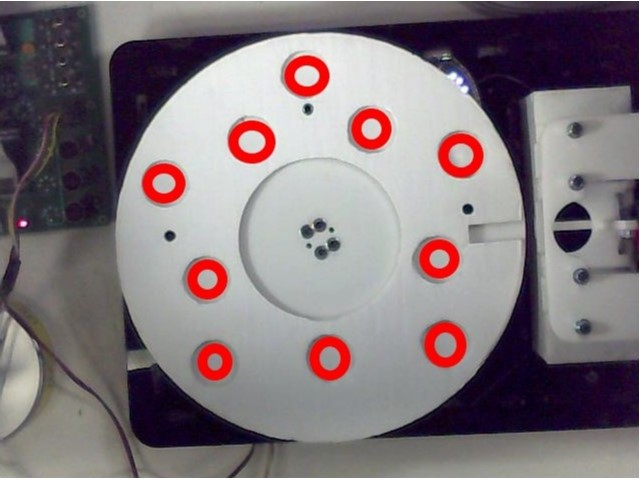
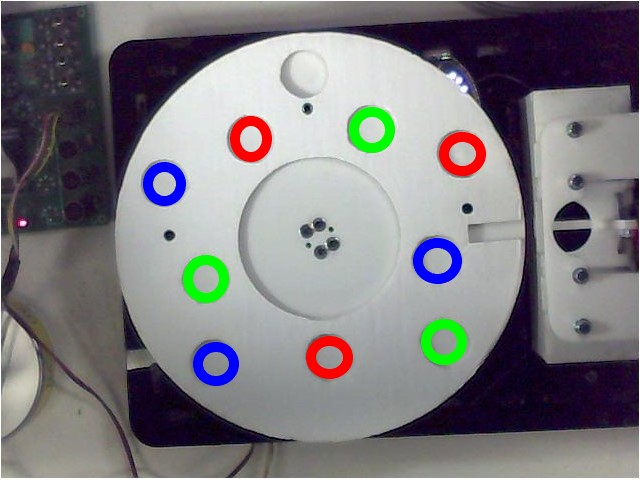
update

diff --git a/mainWashers.m b/mainWashers.m
@@ -25,7 +25,7 @@ gameState.snapShot = imread('back2.jpg');%getSnapshotImage(gameState.cam);
 figure, imshow(gameState.snapShot);
 %% Get Images and Turn it to Gray Scale
 
-% background = imread('gameboard.png');
+% background = imread('gameboard.png');a
 % snapShot = imread('colors.png');
 gameState.backgroundG = rgb2gray(gameState.background);
 gameState.snapShotG = rgb2gray(gameState.snapShot);
@@ -61,28 +61,30 @@ rgbPoints(gameState.snapShot, gameState.props);
 
 %% Determines number of RED Washers
 fprintf('\n\n');
-gameState.redWasher = getRedWasher(gameState.snapShot, gameState.props);
+gameState.allWashers = getAllWashers(gameState.snapShot, gameState.props);
 
-if (gameState.redWasher(1) == 0)
-    clear all;
-    close all;
-    clc;
-    imaqreset;
-    fprintf('No Red Washers detected\n');
-    fprintf('Program will be terminated\n');
-else
+% if (gameState.allWashers(1) == 0)
+%     clear all;
+%     close all;
+%     clc;
+%     imaqreset;
+%     fprintf('No Red Washers detected\n');
+%     fprintf('Program will be terminated\n');
+% else
     %%  Determine the angle of Washers based on Pixels 
     gameState.degrees = getWashersDegrees(gameState.props);
-
-    %% Target PC Set Up
-    tg = setTargetPC();
-
-    %% Degree Test
-    rotateMotorDemo(gameState.degrees, gameState.redWasher, tg);
-
-    %% Stop Simulink
-    tg.stop;
-end
+    
+    cell = sortColorAndDegrees(gameState.wellLocations, gameState.allWashers, gameState.degrees);
+    
+%     %% Target PC Set Up
+%     tg = setTargetPC();
+% 
+%     %% Degree Test
+%     rotateMotorDemo(gameState.degrees, gameState.redWasher, tg);
+% 
+%     %% Stop Simulink
+%     tg.stop;
+% end
 
 
 

diff --git a/sortDegreesAndColors.m b/sortDegreesAndColors.m
@@ -1,0 +1,24 @@
+function [sortedCell] = sortDegreesAndColors(wellLocation, colors, degrees)
+    
+    sortedCell = {{-30, ''},{-65, ''},{-95, ''},{-125, ''},{-160, ''},{10, ''},{40, ''},{85, ''},{130, ''},{160, ''}};
+              
+
+    for c1 = 1:10
+        for c2 = 1:numel(degrees)
+            if (wellLocation <= 5)
+                min = wellLocation(c1) - 2;
+                max = wellLocation(c1) + 2;
+                if ((degrees(c2) > min) && (degrees(c2) < max))
+                    sortedCell{c1}{2} = colors(c2);
+                end
+            else
+                min = wellLocation(c1) - 2;
+                max = wellLocation(c1) + 2;
+                if ((degrees(c2) > min) && (degrees(c2) < max))
+                    sortedCell{c1}{2} = colors(c2);
+                end
+            end
+        end
+    end
+   
+end

diff --git a/getAllWashers.m b/getAllWashers.m
@@ -57,17 +57,17 @@ function [washer] = getAllWashers(snapShot, properties)
 
         if ((redColor > greenColor) && (redColor > blueColor))
             fprintf("Washer #%d is RED\n", c1);
-            washer(c2) = c1;
+            washer(c2) = "Red";
             true = 1;
             c2 = c2 + 1;
         elseif ((greenColor > redColor) && (greenColor > blueColor))
             fprintf('Washer #%d is GREEN\n', c1);
-            washer(c2) = c1;
+            washer(c2) = "Green";
             true = 1;
             c2 = c2 + 1;
         elseif ((blueColor > redColor) && (blueColor > greenColor))
             fprintf('Washer #%d is BLUE\n', c1);
-            washer(c2) = c1;
+            washer(c2) = "Blue";
             true = 1;
             c2 = c2 + 1;
         end

diff --git a/centroidNumber.m b/centroidNumber.m
@@ -1,6 +1,6 @@
 function centroidNumber(snapShot, properties)
    
-    figure, imshow(snapShot);
+    imshow(snapShot);
     hold on;
     for c1 = 1: numel(properties)
         text(properties(c1).Centroid(1), properties(c1).Centroid(2), sprintf('%d', c1), ...

diff --git a/gameState.m b/gameState.m
@@ -17,5 +17,7 @@ classdef gameState
         allWashers
         degrees
         tg
+        wellLocations 
+        degreeAndColor
     end
 end
